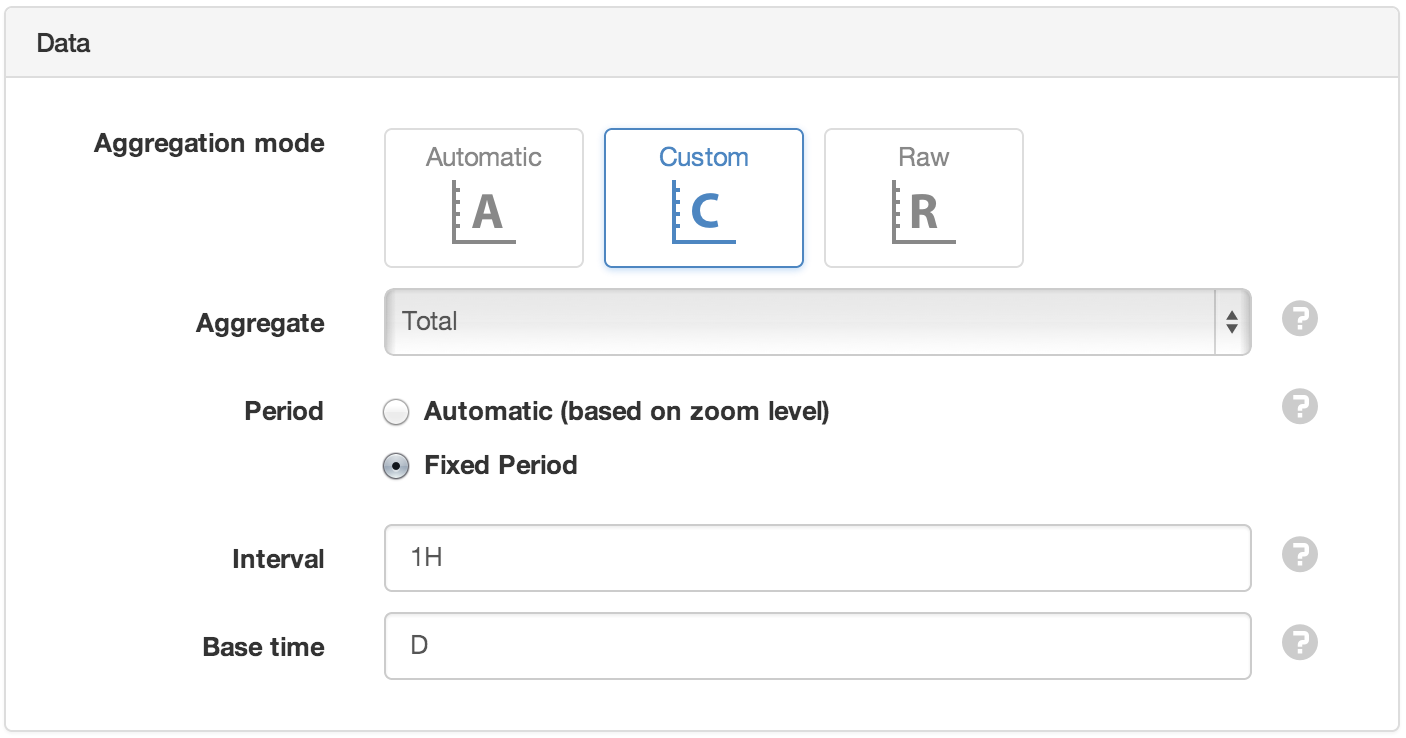
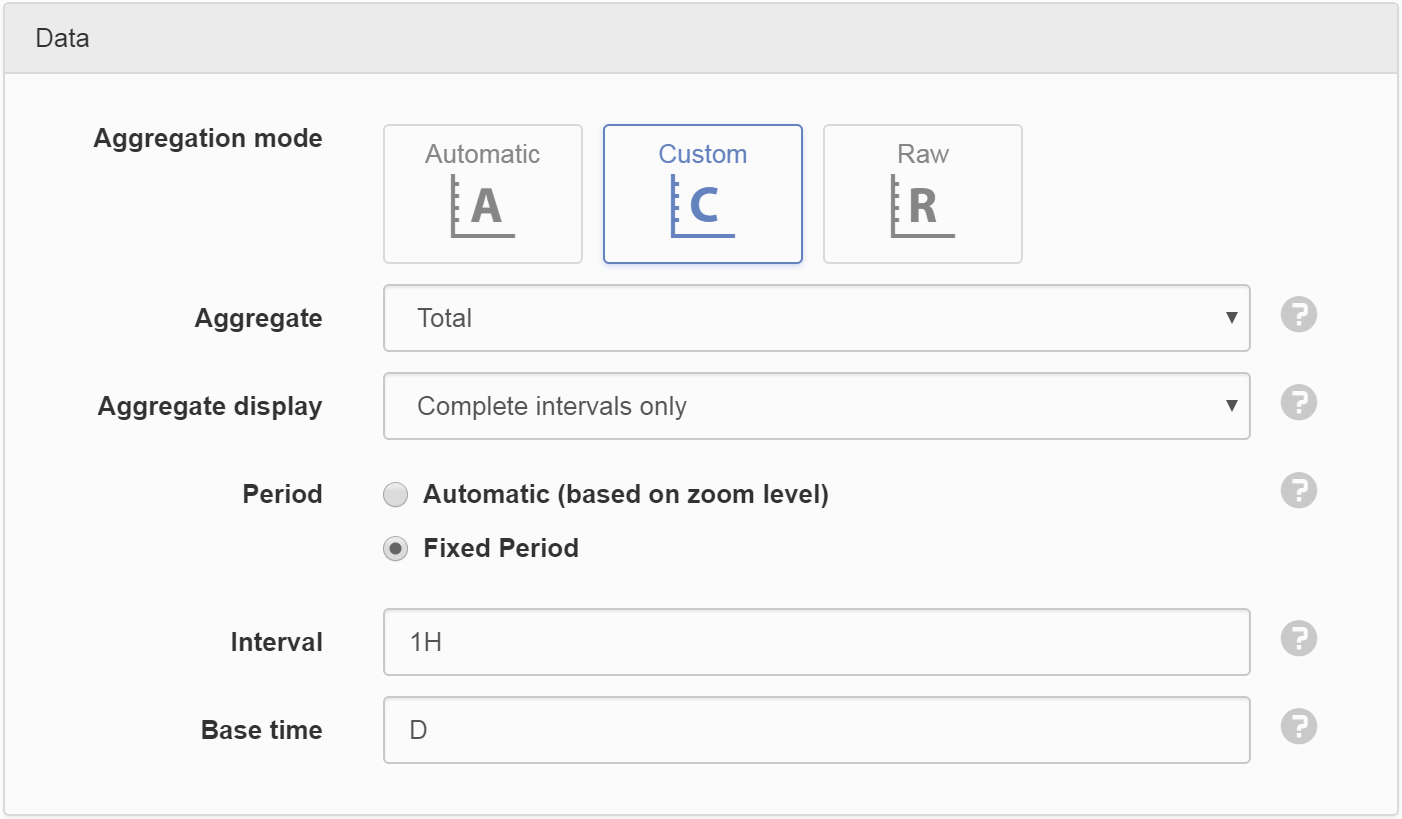
Add docs for aggregate interval include choice, with new screenshot

diff --git a/source/topics/nodes/parameter/index.rst b/source/topics/nodes/parameter/index.rst
@@ -290,6 +290,7 @@ Select the data and processing to be used.
     
     .. image:: parameter_chart_data.png
 
+
 Aggregation mode
     *Automatic*
 
@@ -301,6 +302,8 @@ Aggregation mode
 
         Aggregate
             Aggregates provide a method to resample raw data over a specified period. See the :ref:`list of available aggregates <historic-aggregates>` for full details. Select RAW to display the original raw data with no aggregation applied (Interval and Base time options will be hidden).
+        Aggregate display
+            Determines if aggregated data will be show only after intervals are complete, or be shown during an aggregation interval when only partial data is available.   
         Period
             *Automatic* will change the period of the aggregate calculation based on the zoom level of the chart.
             *Fixed Period* lets you define a fixed Interval and Base time that will be applied regardless of the zoom level.
